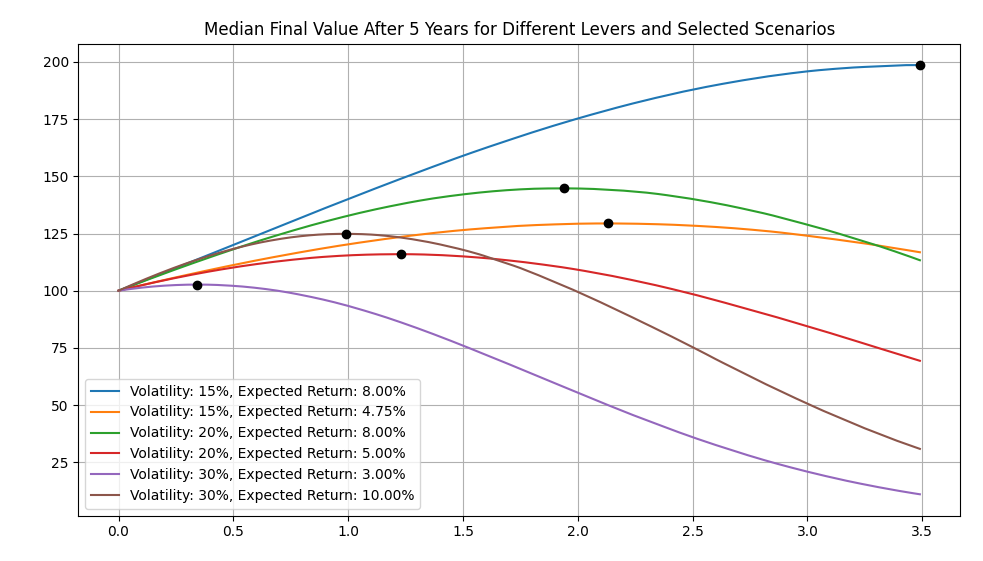
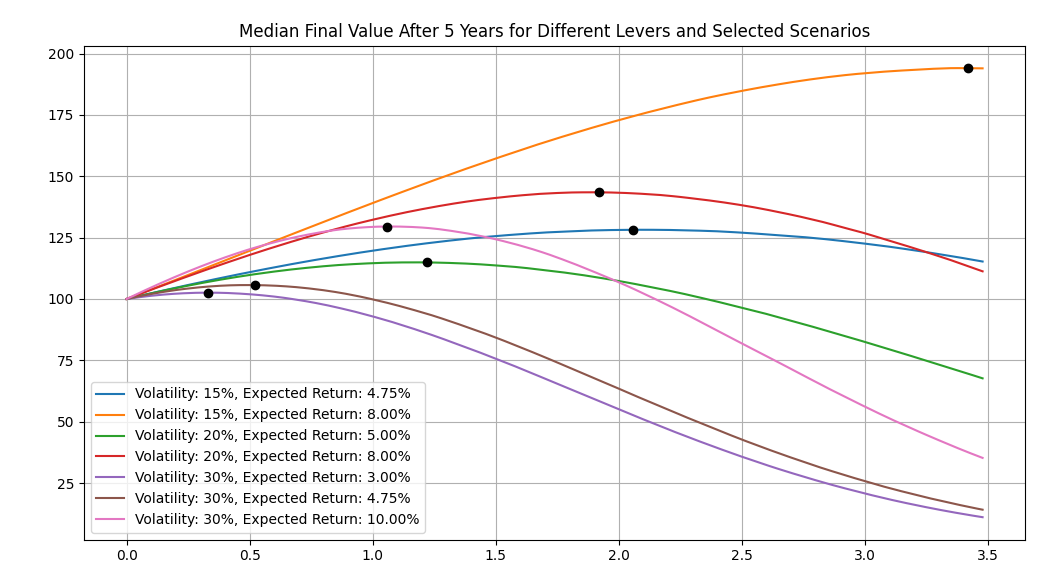
plot theoretically optimal lever instead of simulated one

diff --git a/scripts/optimal_lever.py b/scripts/optimal_lever.py
@@ -12,24 +12,32 @@ number_paths = 10000
 levers = np.arange(start=0.00, stop=3.5, step=0.01)
 Scenario = namedtuple("Scenario", ["volatility", "expected_return"])
 scenarios = [
-    Scenario(volatility=0.15, expected_return=0.08),
     Scenario(volatility=0.15, expected_return=0.08 - 0.0325),  # S&P 500 minus ECB's interest rate
-    Scenario(volatility=0.20, expected_return=0.08),
+    Scenario(volatility=0.15, expected_return=0.08),
     Scenario(volatility=0.20, expected_return=0.05),
+    Scenario(volatility=0.20, expected_return=0.08),
     Scenario(volatility=0.30, expected_return=0.03),
+    Scenario(volatility=0.30, expected_return=0.08 - 0.0325),
     Scenario(volatility=0.30, expected_return=0.10),
 ]
 
 
 def main() -> None:
+    for scenario in scenarios:
+        theoretically_best_lever = round(
+            np.log(1 + scenario.expected_return) / scenario.volatility**2, 2
+        )
+        levers[-1] = theoretically_best_lever
+    sorted_levers = sorted(levers)
     for scenario in tqdm(scenarios):
         # Maps levers to the final price after n_years.
         final_values: defaultdict[float, list[float]] = defaultdict(list)
+
         for _ in range(number_paths):
             gbm_path = gbm_with_annual_params(
                 n_years * 365, 100.0, scenario.volatility, scenario.expected_return
             )
-            for lever in levers:
+            for lever in sorted_levers:
                 leveraged_path = leverage_asset(gbm_path, lever)
                 final_values[lever].append(leveraged_path[-1])
 
@@ -39,9 +47,11 @@ def main() -> None:
             f"Expected Return: {scenario.expected_return:.2%}"
         )
         plt.plot(medians.keys(), medians.values(), label=label)
-        best_lever = max(medians, key=medians.get)
-        max_median = medians[best_lever]
-        plt.plot(best_lever, max_median, "o", color="black")
+        theoretically_best_lever = round(
+            np.log(1 + scenario.expected_return) / scenario.volatility**2, 2
+        )
+        max_median = medians[theoretically_best_lever]
+        plt.plot(theoretically_best_lever, max_median, "o", color="black")
     plt.title(
         f"Median Final Value After {n_years} Years for Different Levers and Selected Scenarios"
     )
